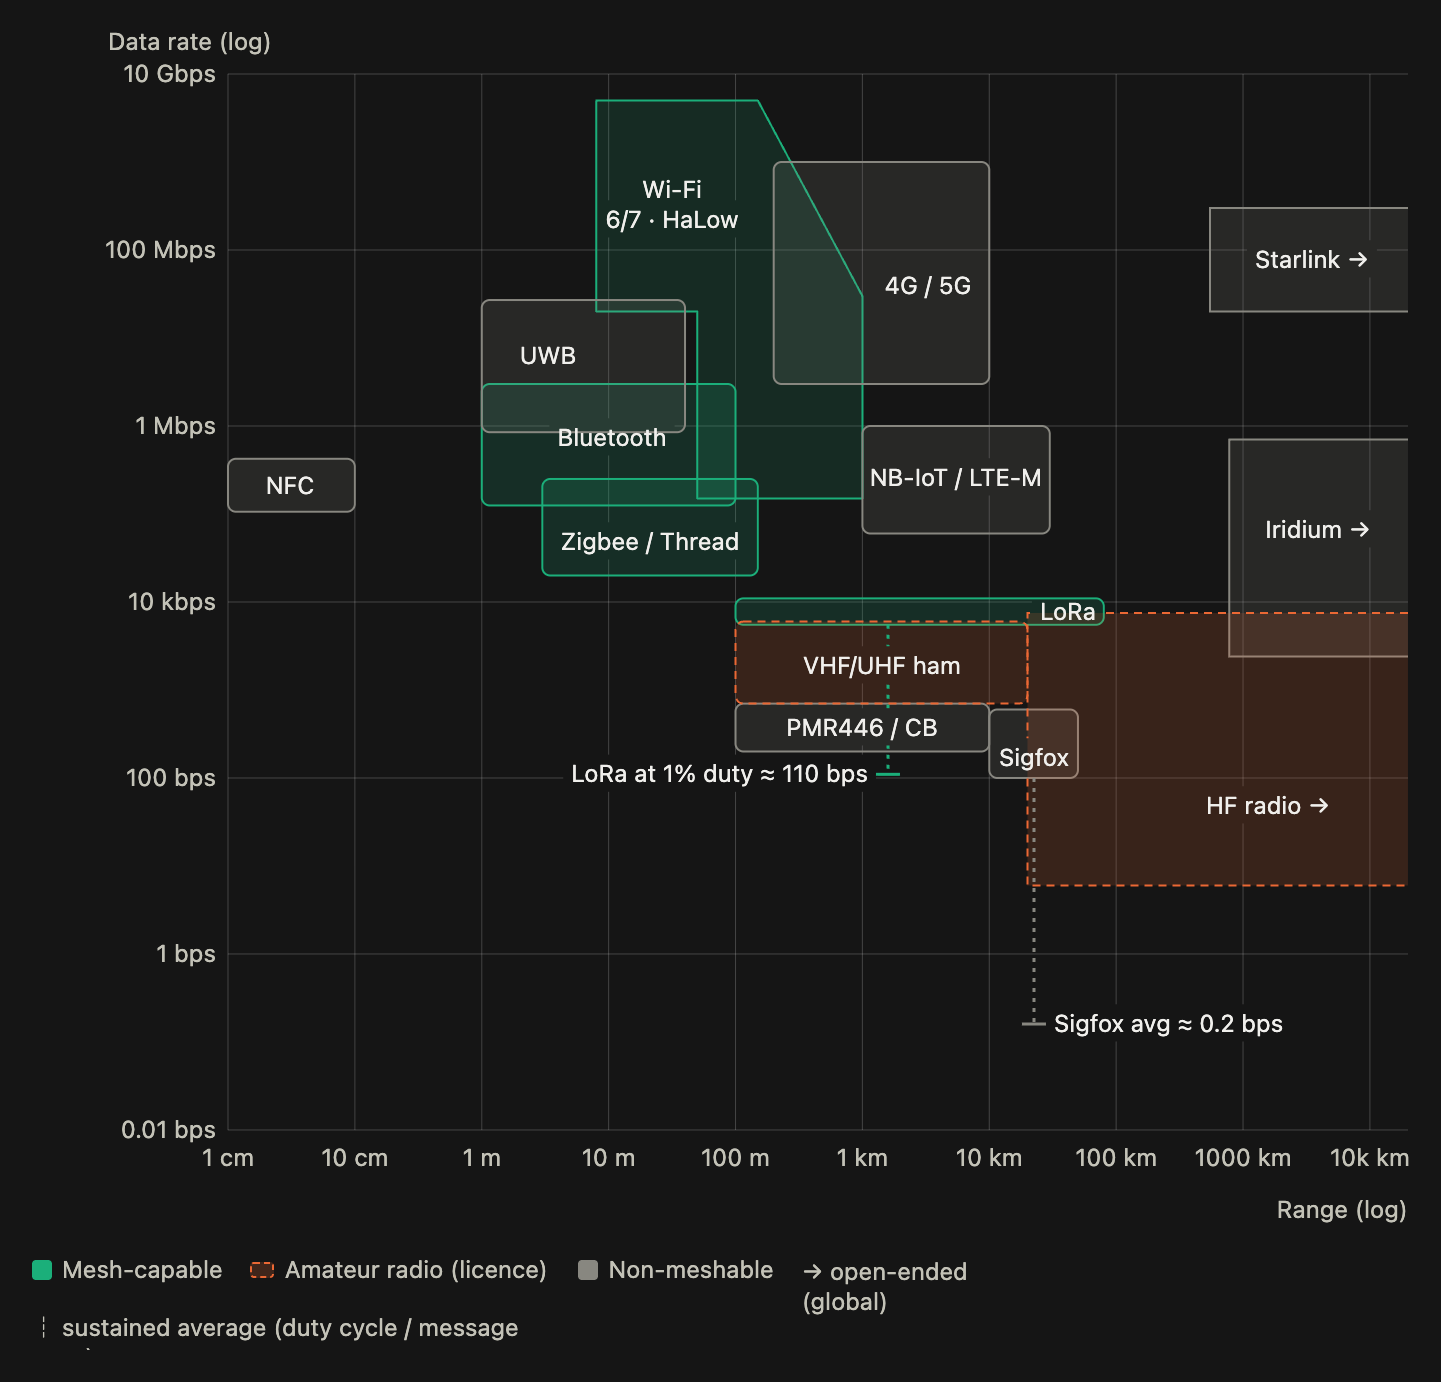
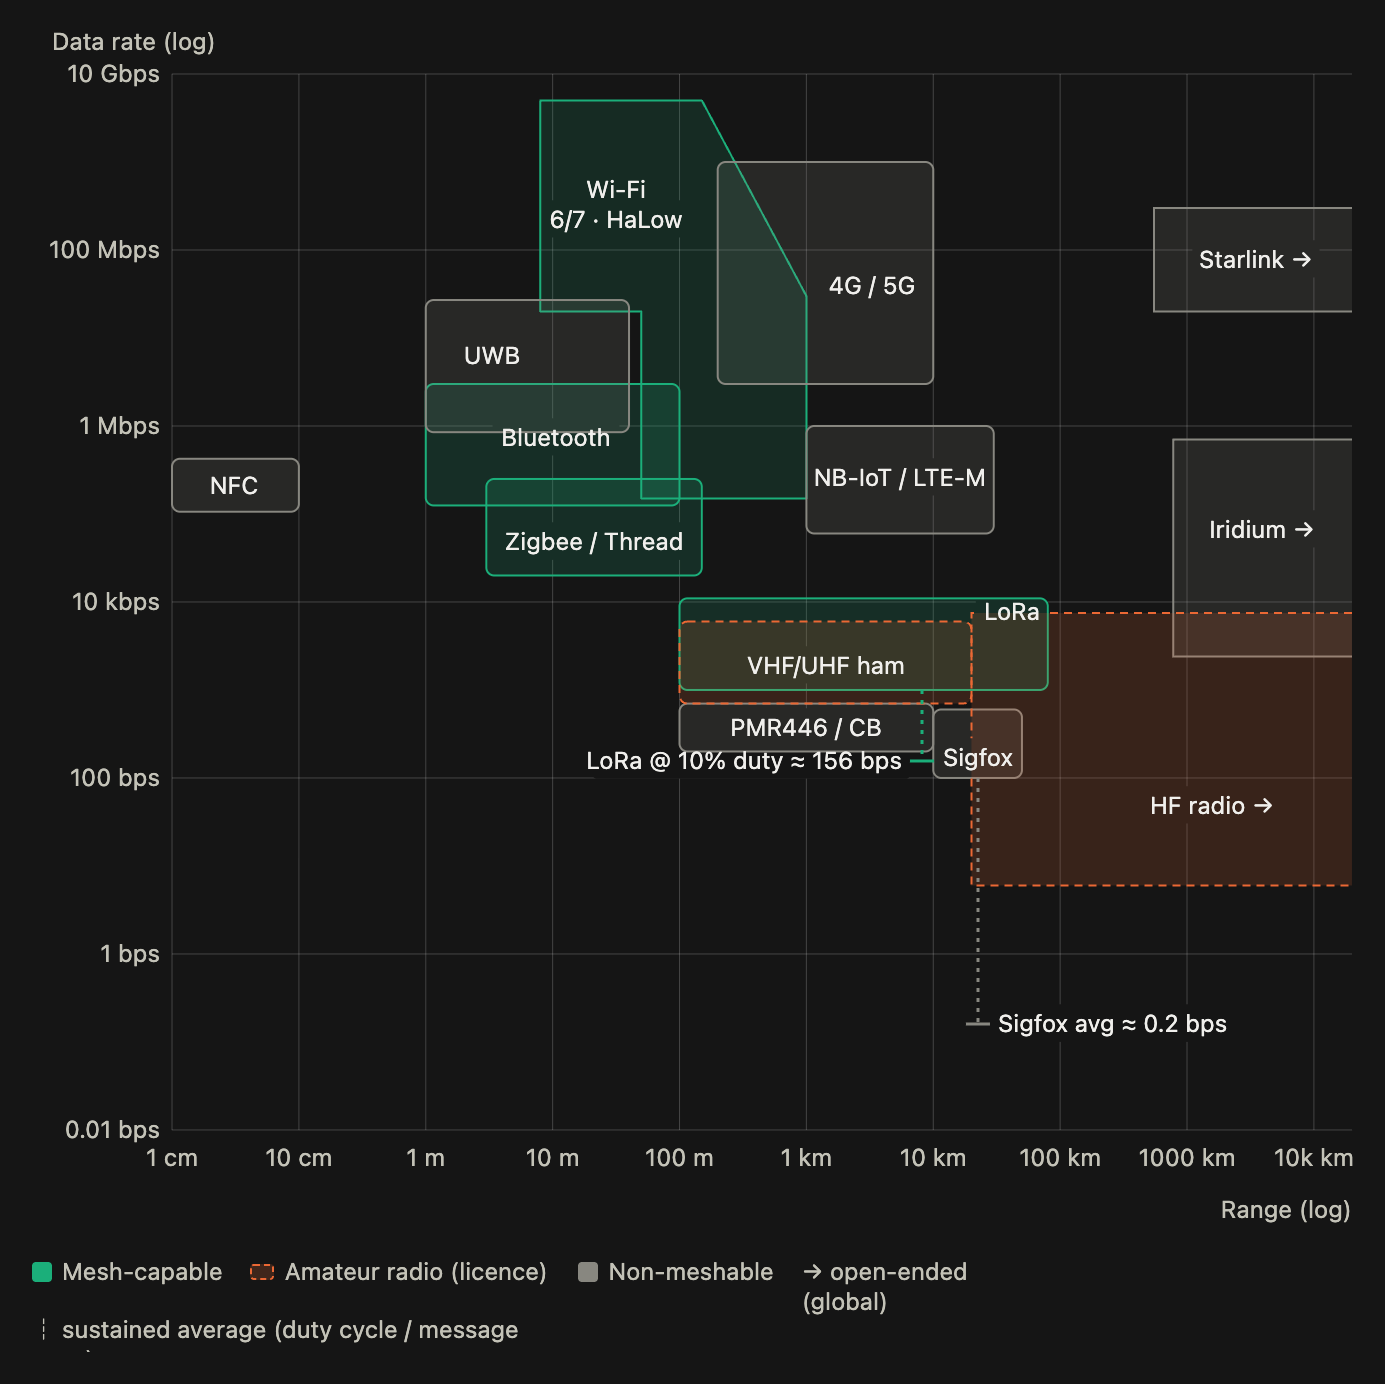
polish FAQ and image

diff --git a/_includes/faq.html b/_includes/faq.html
@@ -3,7 +3,7 @@
     <div class="content-box faq">
 
         <details>
-            <summary>Was ist ein Mesh-Netzwerk?</summary>
+            <summary>Was ist das Mesh-Netzwerk?</summary>
             <p>Ein Funknetz, in dem Geräte direkt miteinander verbunden sind,
                 statt über einen zentralen Server oder Funkmast zu kommunizieren. Nachrichten werden von Gerät zu Gerät
                 weitergereicht
@@ -61,7 +61,7 @@
             <p>Über den <strong>Spreading Factor</strong> (SF7 bis SF12) lässt sich die Länge eines Chirps einstellen.
                 Jede Stufe verdoppelt die Sendedauer: Höhere Spreading Factors reichen weiter und sind robuster, senden
                 aber langsamer. Niedrigere Spreading Factors sind schneller, haben dafür aber eine geringere
-                Reichweite.</p>
+                Reichweite. MeshCore nutzt in Deutschland SF8.</p>
             <figure>
                 <img src="{{ '/assets/images/lora-chirps.jpg' | relative_url }}"
                     alt="Wasserfalldiagramm von LoRa-Chirps: Up- und Down-Chirps laufen über die Bandbreite; mit steigendem Spreading Factor von SF7 bis SF12 werden die Chirps länger">
@@ -259,19 +259,21 @@
         </details>
 
         <details>
-            <summary>Ist MeshCore legal?</summary>
-            <p>Ja. MeshCore nutzt das lizenzfreie 868-MHz-Band, das in Europa für solche Anwendungen freigegeben ist.
-                Wichtig ist, dass dein Gerät auf die Region <strong>EU868</strong> eingestellt ist, damit die erlaubten
-                Sendeleistungen und Sendezeiten eingehalten werden.</p>
-            <p>Die Sendezeit regelt die Bundesnetzagentur über den <strong>Arbeitszyklus</strong>: den Anteil einer
-                Stunde, in dem ein Gerät in einem Frequenzband senden darf. Ein Arbeitszyklus von 1&nbsp;% bedeutet
-                also höchstens 36 Sekunden Sendezeit pro Stunde. Die Grenzen hängen vom Teilband ab: In weiten Teilen
-                des 868-MHz-Bands gelten 1&nbsp;% oder sogar nur 0,1&nbsp;%. Im Teilband 869,4–869,65&nbsp;MHz, das
-                MeshCore in Europa nutzt, sind dagegen 10&nbsp;% (6 Minuten pro Stunde) bei bis zu 500&nbsp;mW
-                erlaubt. Im 433-MHz-Band sind es 10&nbsp;% bei nur 10&nbsp;mW.</p>
-            <p>Quelle: <a
+            <summary>Wieviel Sendezeit und Sendeleistung ist erlaubt?</summary>
+            <p><strong>Sendezeit:</strong> Im Teilband 869,4–869,65&nbsp;MHz, das MeshCore in Europa nutzt, erlaubt
+                die <a
                     href="https://www.bundesnetzagentur.de/DE/Fachthemen/Telekommunikation/Frequenzen/Allgemeinzuteilungen/_DL/vfg91_2025.pdf"
-                    target="_blank">Bundesnetzagentur, Vfg. 91/2025</a></p>
+                    target="_blank">Bundesnetzagentur</a> einen Arbeitszyklus von 10&nbsp;%. Das bedeutet, ein Gerät
+                darf
+                höchstens 6 Minuten pro Stunde senden.</p>
+            <p><strong>Sendeleistung:</strong> In Meshcore-Teilband sind bis zu 500&nbsp;mW erlaubt. Zum Vergleich: Im
+                ebenfalls frei nutzbaren 433-MHz-Band wären es nur 10&nbsp;mW.</p>
+            <p>Wichtig ist, dass dein Gerät auf die Region <strong>EU/UK (narrow)</strong> eingestellt ist, damit die
+                erlaubten
+                Sendeleistungen und Sendezeiten eingehalten werden. Damit hört und sendet dein Gerät auf
+                869.618 MHz,
+                mit Bandbreite 62,5 kHz und einem Spreading Factor SF8.
+            </p>
         </details>
 
         <details>
